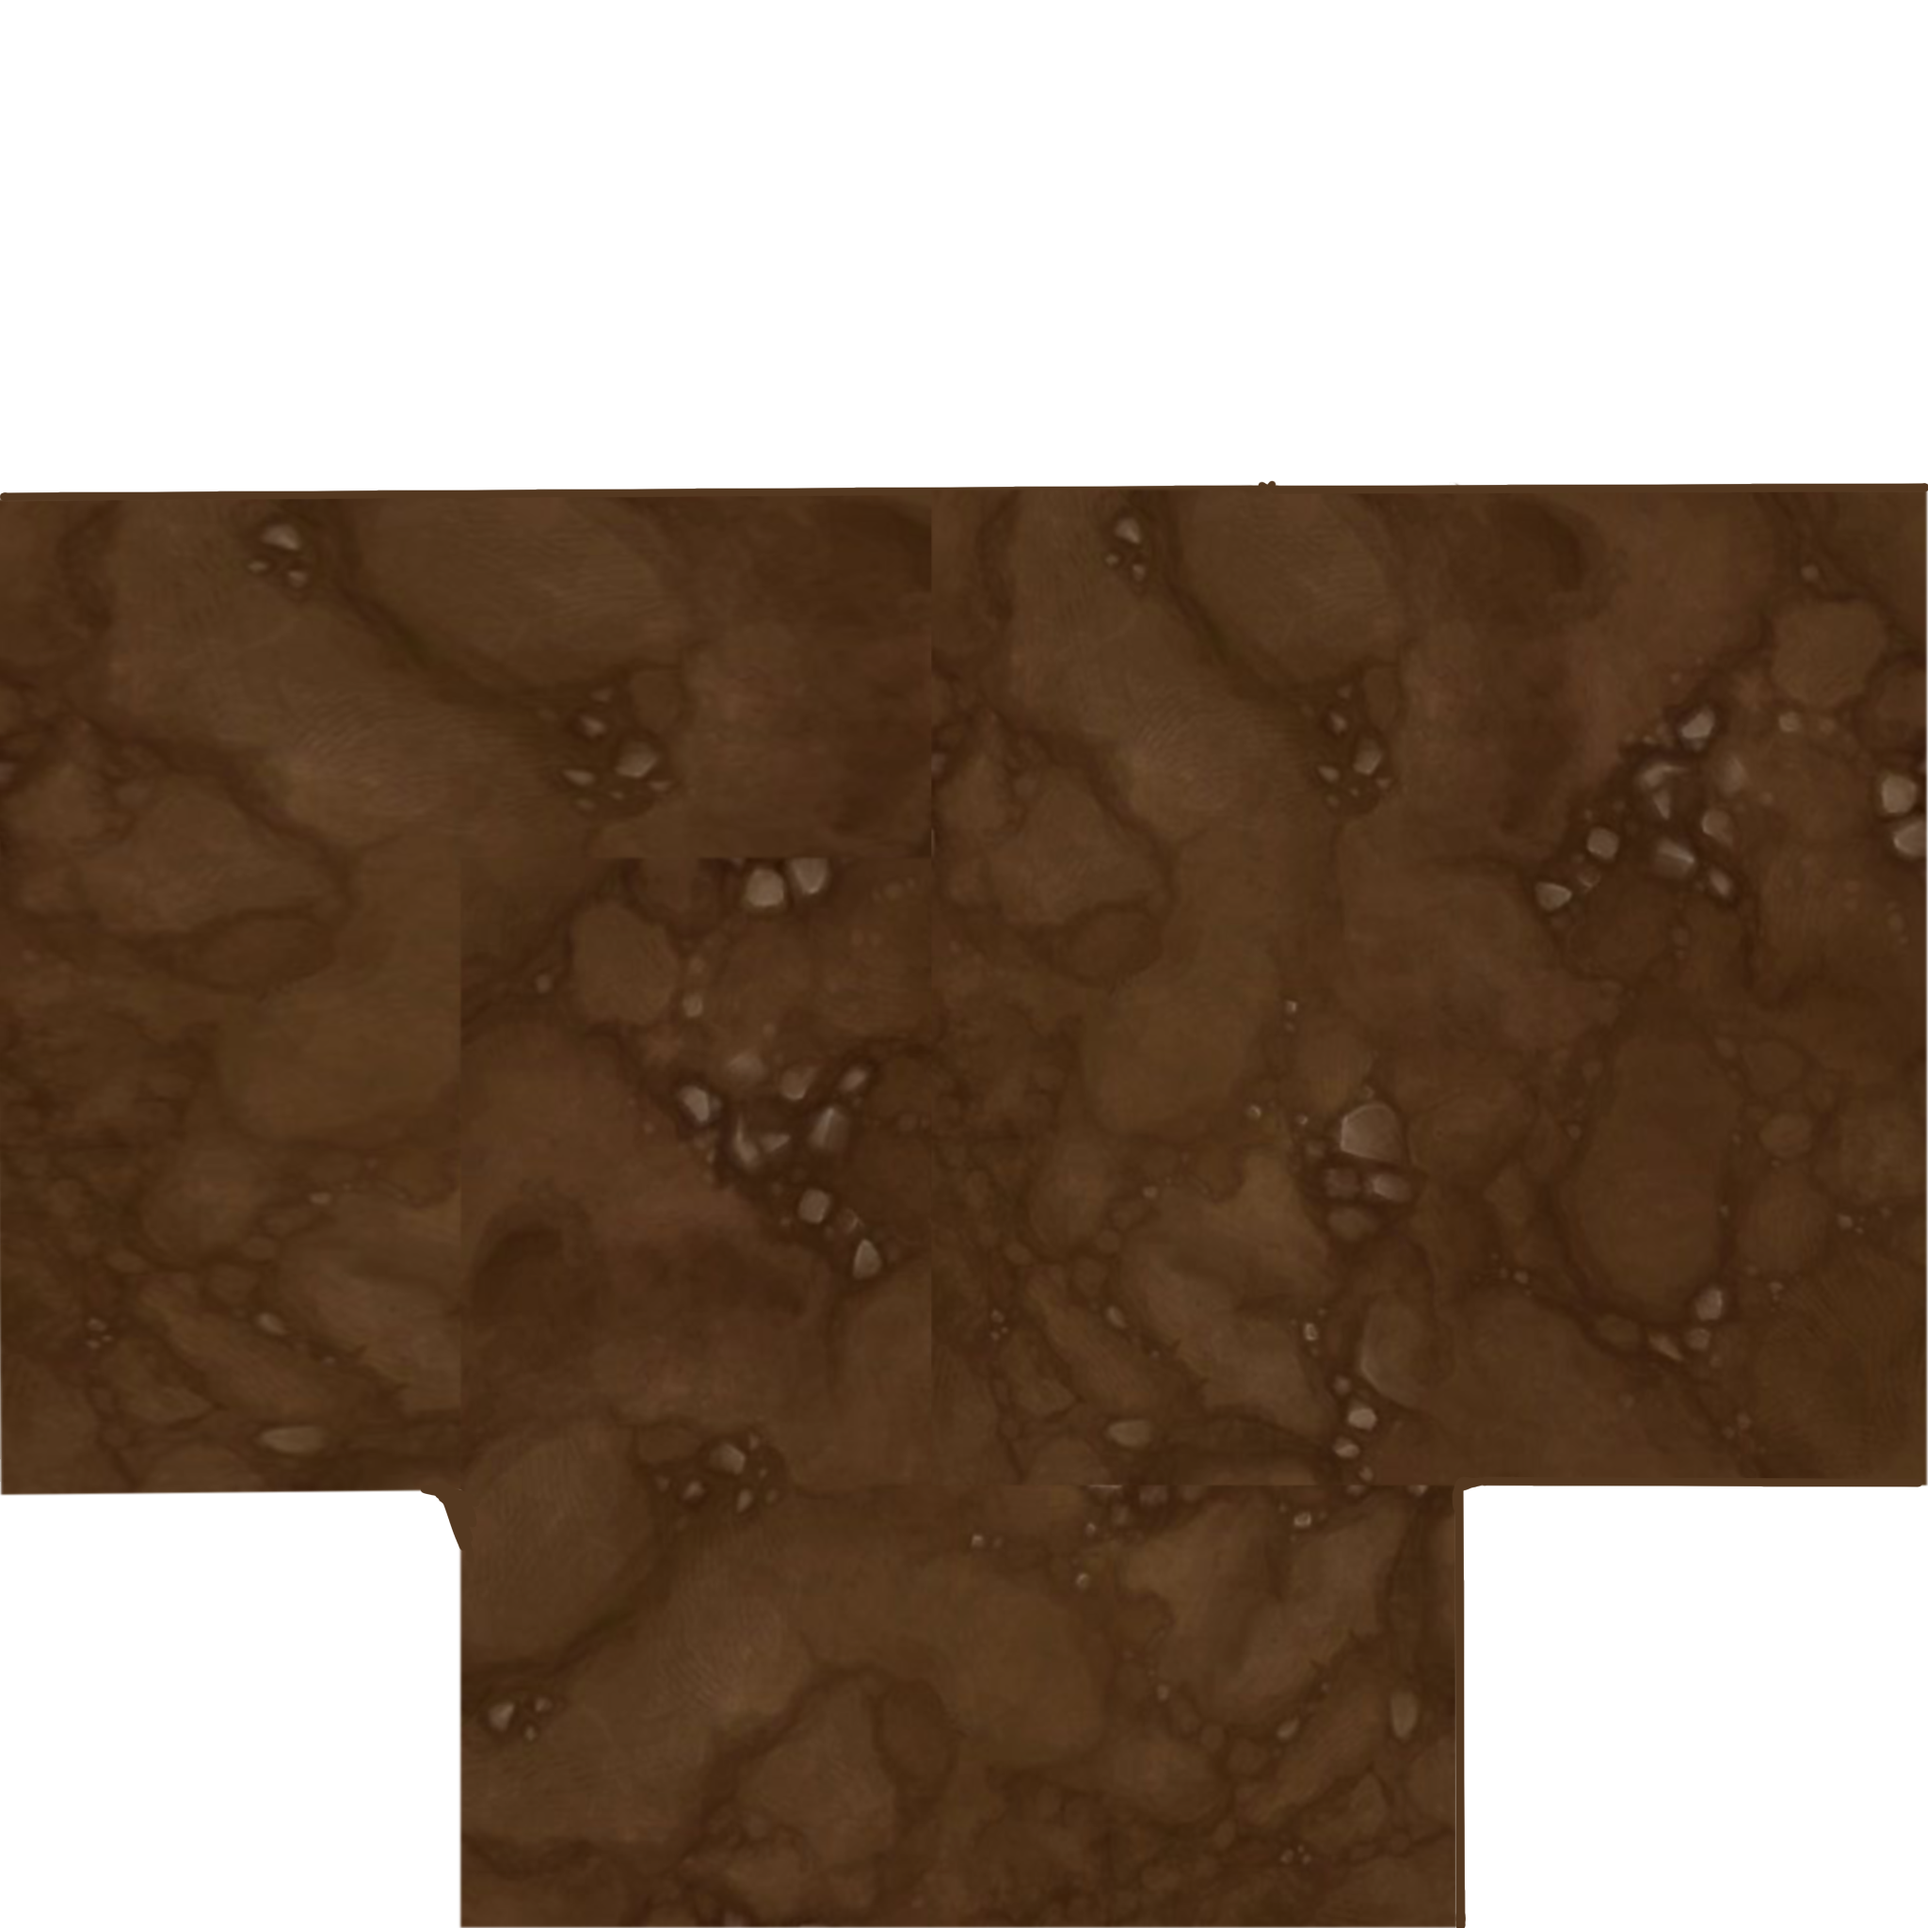
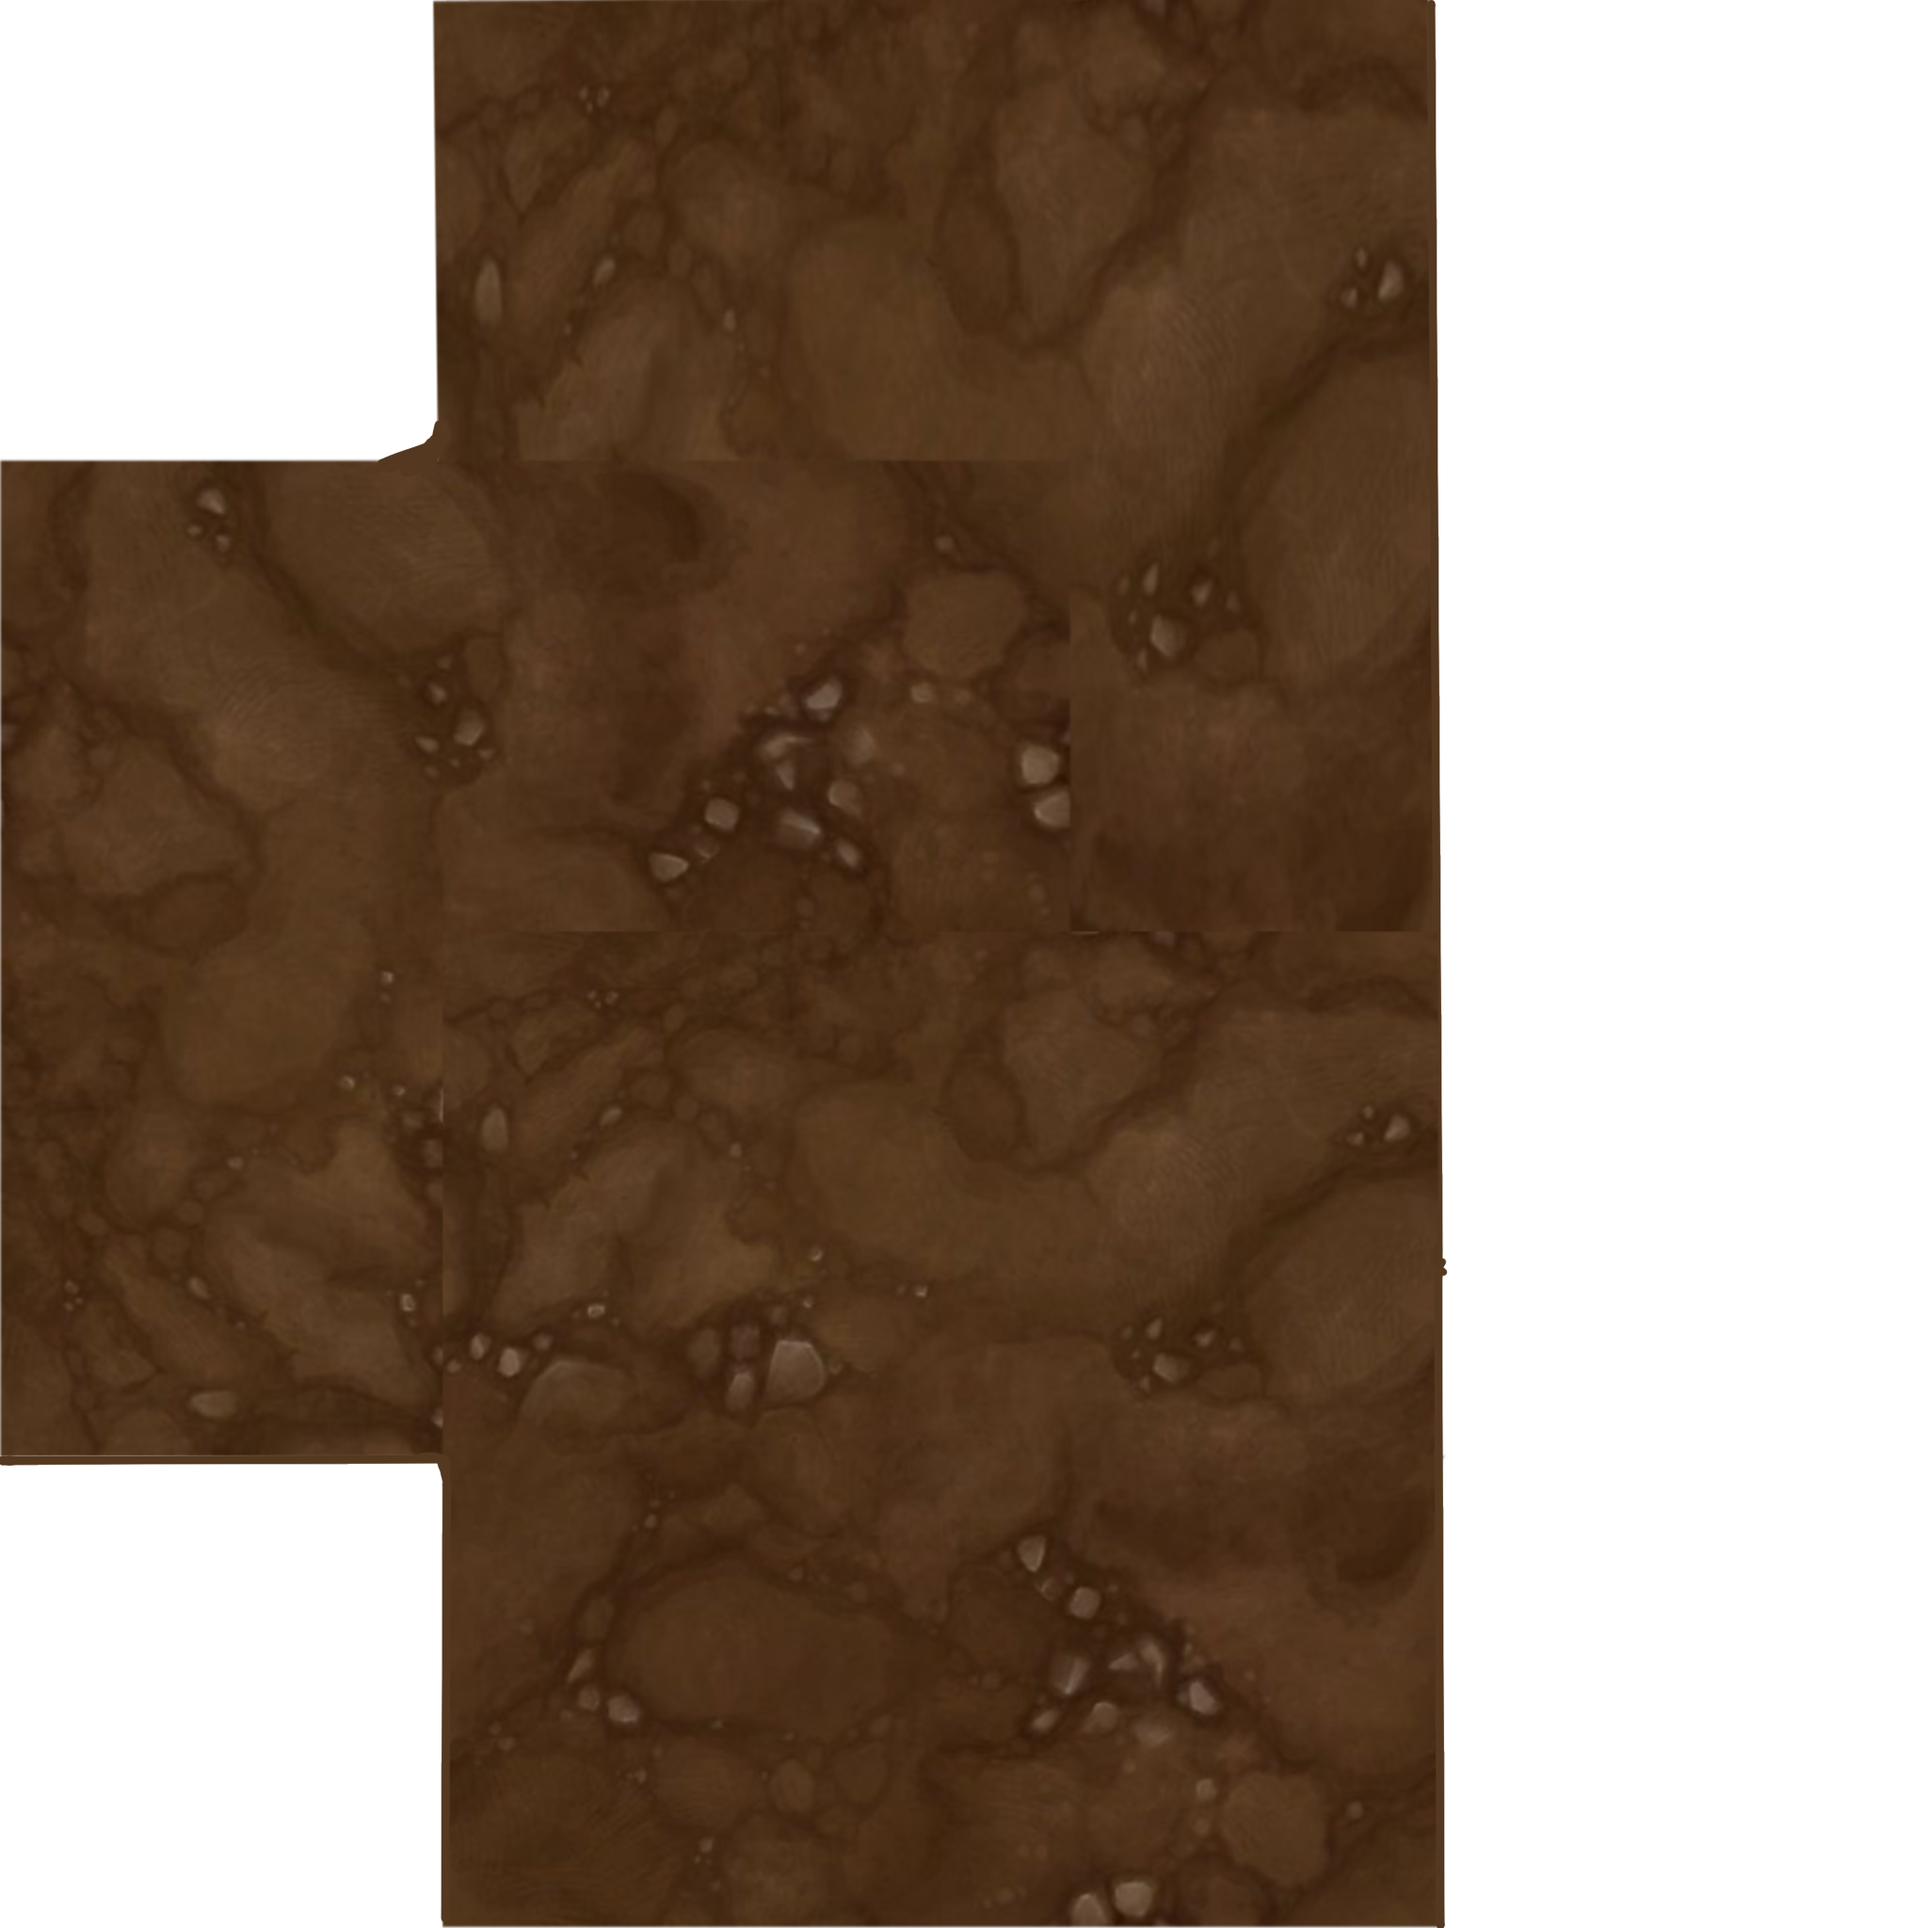
Implement road direction
- direction implementation complete
- roads are now update frequently

diff --git a/Assets/Scripts/Road.cs b/Assets/Scripts/Road.cs
@@ -10,6 +10,7 @@ public class Road : XRBaseInteractable, IGridCoordinate
     // Store types of road(turns, straight, junction) and renderer
     [SerializeField] private Sprite[] roadType;
     [SerializeField] private SpriteRenderer roadRenderer;
+    [SerializeField] private Transform anchor;
 
     // For debug purposes
     [SerializeField] private int actualX;
@@ -48,22 +49,14 @@ public class Road : XRBaseInteractable, IGridCoordinate
 
         if (!HasPlaced)
         {
-            bool[] results = slotManager.CheckSurrounding(PosX, PosZ);
-            string debugText = "";
-
-            for (int i = 0; i < results.Length; i++)
-            {
-                debugText += results[i] + " ";
-            }
-
-            Debug.Log(debugText);
-            roadRenderer.sprite = roadType[1];
             HasPlaced = true;
+            slotManager.UpdateAllRoads();
         }
         else if (HasPlaced)
         {
             roadRenderer.sprite = roadType[0];
             HasPlaced = false;
+            slotManager.UpdateAllRoads();
         }
         //Debug.Log(HasPlaced);
         
@@ -73,5 +66,50 @@ public class Road : XRBaseInteractable, IGridCoordinate
     public override bool IsSelectableBy(IXRSelectInteractor interactor)
     {
         return false;
+    }
+
+    /// <summary>
+    /// Update road patterns
+    /// </summary>
+    public void RoadUpdate()
+    {
+        float angle = 0;
+        int placed = 0;
+        bool straight = false; // straight roads
+
+        bool[] results = slotManager.CheckSurrounding(PosX, PosZ);
+
+        // Check results. Another mess of a code
+        for (int i = 0; i < results.Length; i++)
+        {
+            if (results[i])
+            {
+                placed++;
+                if (angle - anchor.eulerAngles.y == 180 && !straight)
+                    straight = true;
+                else if ((angle - anchor.eulerAngles.y == 270 || straight) && placed > 1)
+                    angle += 90;
+
+                if (!results[2] && placed > 2)
+                    angle += 180;
+
+                // zero out angle if 360, else normal la
+                if (angle > 300)
+                {
+                    anchor.eulerAngles = new Vector3(0, angle - 360, 0);
+                    angle = 0;
+                }
+                else
+                    anchor.eulerAngles = new Vector3(0, angle, 0);
+            }
+            angle += 90;
+        }
+
+        if (straight && placed == 2) // if road are straight
+            roadRenderer.sprite = roadType[5];
+        else if (placed > 0) // normal selection
+            roadRenderer.sprite = roadType[placed];
+        else
+            roadRenderer.sprite = roadType[1]; // default
     }
 }

diff --git a/Assets/Scripts/SlotManager.cs b/Assets/Scripts/SlotManager.cs
@@ -40,12 +40,6 @@ public class SlotManager : MonoBehaviour
         WidthGrid = (table.size.z) / (gridCount + 1);
         InitiateSlotList();
         currentSlot = socketBuildingPrefab.tag;
-
-        for (int i = 0; i < 4; i++)
-        {
-            bool bruh = true; if (i > 1) bruh = false;
-            if (i < 1) Debug.Log(bruh); else Debug.Log(bruh);
-        }
     }
 
     // get first world position of the grid
@@ -177,7 +171,7 @@ public class SlotManager : MonoBehaviour
     /// </summary>
     /// <param name="x">GRID Coordinate X</param>
     /// <param name="z">GRID Coordinate Y</param>
-    /// <returns>Condition of N, W, S, E.</returns>
+    /// <returns>Condition of N, E, S, W.</returns>
     public bool[] CheckSurrounding(int x, int z)
     {
         int size = 4;
@@ -213,5 +207,19 @@ public class SlotManager : MonoBehaviour
         }
 
         return surroundings;
+    }
+
+    /// <summary>
+    /// Trigger to update all roads.
+    /// </summary>
+    public void UpdateAllRoads()
+    {
+        for (int i = 0; i < roads.Length; i++)
+        {
+            Road road = roads[i].GetComponent<Road>();
+
+            if (road.HasPlaced)
+                road.RoadUpdate();
+        }
     }
 }
